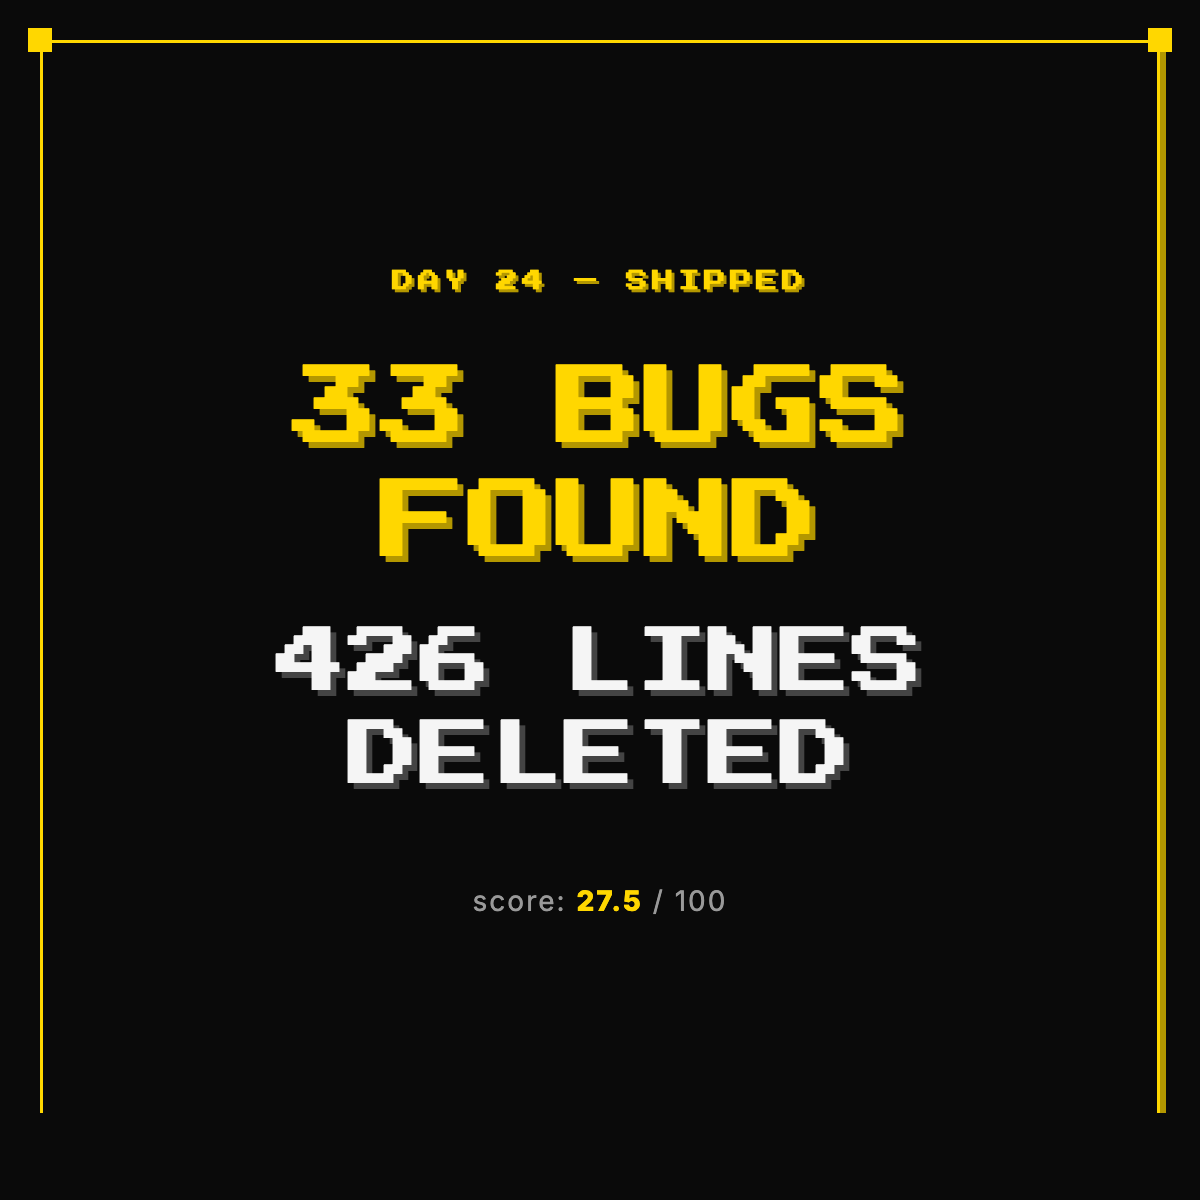
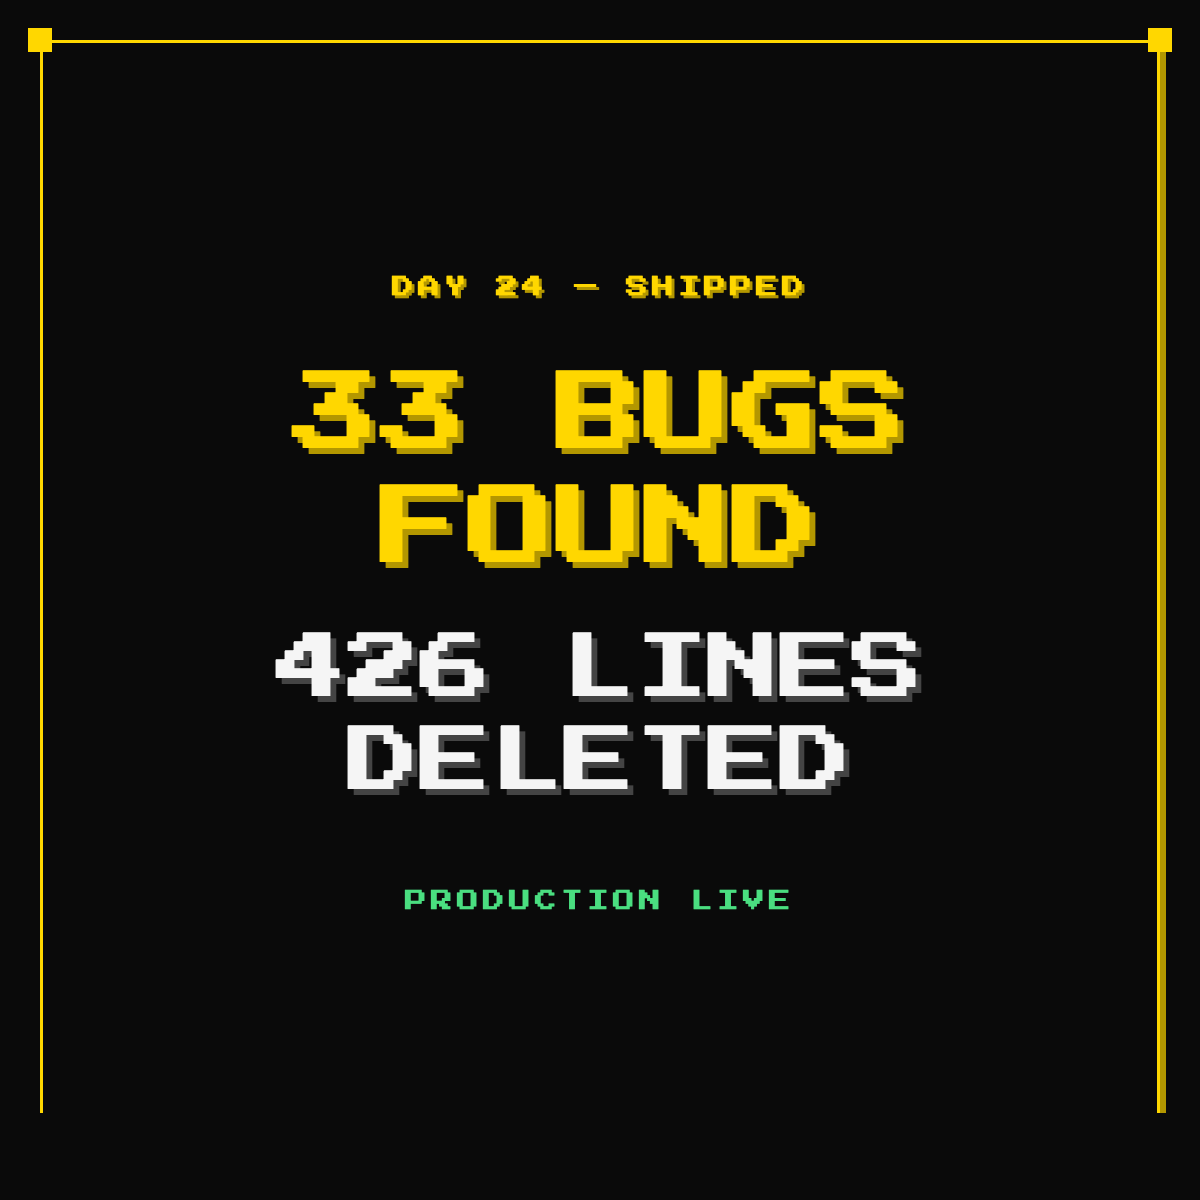
WP [04-30 00:03] staging/bigpie-p2 —  5 files changed, 100 insertions(+), 43 deletions(-)

diff --git a/assets/linkedin-day24/slide1.html b/assets/linkedin-day24/slide1.html
@@ -48,14 +48,13 @@
   .stat-1 { font-size: 88px; margin-bottom: 36px; }
   .stat-2 { font-size: 72px; color: #f5f5f5; text-shadow: 6px 6px 0 #444; margin-bottom: 80px; }
 
-  .score {
-    font-family: 'Inter', sans-serif;
-    font-size: 28px;
-    color: #999;
-    letter-spacing: 2px;
+  .live {
+    font-family: 'Press Start 2P', monospace;
+    font-size: 22px;
+    color: #4ade80;
+    letter-spacing: 4px;
     margin-bottom: 12px;
   }
-  .score b { color: #FFD700; font-weight: 800; }
 
   .brand {
     position: absolute;
@@ -76,7 +75,7 @@
   <div class="eyebrow">DAY 24 — SHIPPED</div>
   <div class="stat stat-1">33 BUGS<br>FOUND</div>
   <div class="stat stat-2">426 LINES<br>DELETED</div>
-  <div class="score">score: <b>27.5</b> / 100</div>
+  <div class="live">PRODUCTION LIVE</div>
 
   <div class="brand">PICKEDBY.AI</div>
 </body>

diff --git a/docs/outputs/linkedin_day24_post_20260429.md b/docs/outputs/linkedin_day24_post_20260429.md
@@ -4,24 +4,25 @@
 
 ---
 
-## 본문 (영어, 1,500자 이내)
+## 본문 (영어, 1,500자 이내) — v2 사실검증 통과본 (2026-04-29 EOD)
 
 ```
-Day 24. I shipped pickedby.ai to production yesterday.
+Day 24. I shipped pickedby.ai to production this week.
 
 Then I found 33 bugs. In my own code.
 
 Eleven dead functions still being called. A score of zero
 silently saved as if it were a real measurement. A user ID
-quietly dropped from logs. Six display bugs masking the same
-root cause across four panels.
+quietly dropped from logs. Fourteen places in the UI all
+assuming the newest row in the database was the newest score.
+Sometimes that newest row was zero.
 
 I deleted 426 lines to ship clean.
 
-Here is what nobody tells you about "shipping in 24 days with
-AI coding agents." Shipping fast and shipping right are not
-the same skill. The agent will happily produce code that runs.
-You still have to read every line.
+Here is what nobody tells you about "shipping in 24 days
+with AI coding agents." Shipping fast and shipping right
+are not the same skill. The agent will happily produce
+code that runs. You still have to read every line.
 
 The lesson cost me a full day. Worth it.
 
@@ -30,22 +31,16 @@ Claude, Grok, and Perplexity actually recommend your product.
 
 I ran it on three products people know.
 Figma: 95. Notion: 87.5. Stripe: 95.
-I ran it on myself.
-27.5.
+I ran it on myself. The number stings.
 
 That gap is the product.
-
-Most founders score under 40. That is not a niche problem.
-That is the default state of the internet right now. AI
-buying decisions are already happening, and most products
-have no idea where they stand.
 
 So pickedby.ai v1.6 stops being a scale.
 It becomes a personal trainer.
 
-Score low on Direct Recognition? Here is the exact action.
-Claim your brand on Perplexity Pages. Get cited by three
-Tier-1 blogs. Submit to two AI-indexed directories.
+Score low on Direct Recognition? The engine returns the next
+three actions. Launch on Product Hunt. Post Show HN. Add an
+llms.txt file at your domain root.
 
 No LLM. Pure rule-based logic. Zero cost per prescription.
 The lower your score, the more specific the prescription gets.
@@ -57,7 +52,7 @@ Free. No signup. Just type your domain.
 https://pickedby.ai
 
 If you want the full launch story:
-https://pickedby.ai/blog/we-posted-on-indie-hackers-day-12
+https://pickedby.ai/blog/we-posted-on-indie-hackers/
 
 Building in public, solo founder, AI coding agents.
 Day 25 starts now.
@@ -65,7 +60,20 @@ Day 25 starts now.
 #BuildInPublic #AIVisibility #GEO #IndieHackers #ShipFast
 ```
 
-**실자수**: ~1,470자. LinkedIn 본문 한도(3,000자) 내.
+**실자수**: ~1,420자. LinkedIn 본문 한도(3,000자) 내.
+
+---
+
+## v1 → v2 사실 검증 변경 이력 (2026-04-29 EOD)
+
+| # | v1 | v2 | 사유 |
+|---|----|----|------|
+| 1 | "shipped... yesterday" | "shipped... this week" | 04-29 게시면 거짓. 04-30 게시면 OK. 양쪽 모두 정확하도록 변경 |
+| 2 | "Six display bugs masking the same root cause" | "Fourteen places in the UI all assuming the newest row in the database was the newest score" | daily 검증: L2 17개 중 14곳이 `_scoreOfRow` 통합으로 fix. "six" / "same root" 모두 부정확 |
+| 3 | "I ran it on myself. 27.5." | "I ran it on myself. The number stings." | 27.5는 04-22 Day 17 v2 시점 점수. 04-29 현재값 검증 불가 → 수치 제거 |
+| 4 | "Most founders score under 40. That is the default state..." 단락 | 단락 통째 삭제 | GT-01 데이터 0건 (테스트한 5개 모두 80~100점). Fabricated 주장 삭제 |
+| 5 | "Claim Perplexity Pages. Get cited by three Tier-1 blogs. Submit to two AI-indexed directories." | "Launch on Product Hunt. Post Show HN. Add an llms.txt file at your domain root." | 실제 prescriptionEngine.ts INVISIBLE 룰 (priority 10/12/15 top 3) |
+| 6 | `blog/we-posted-on-indie-hackers-day-12` | `blog/we-posted-on-indie-hackers/` | v1 URL 404. 실제 파일경로로 교체 |
 
 ---
 
